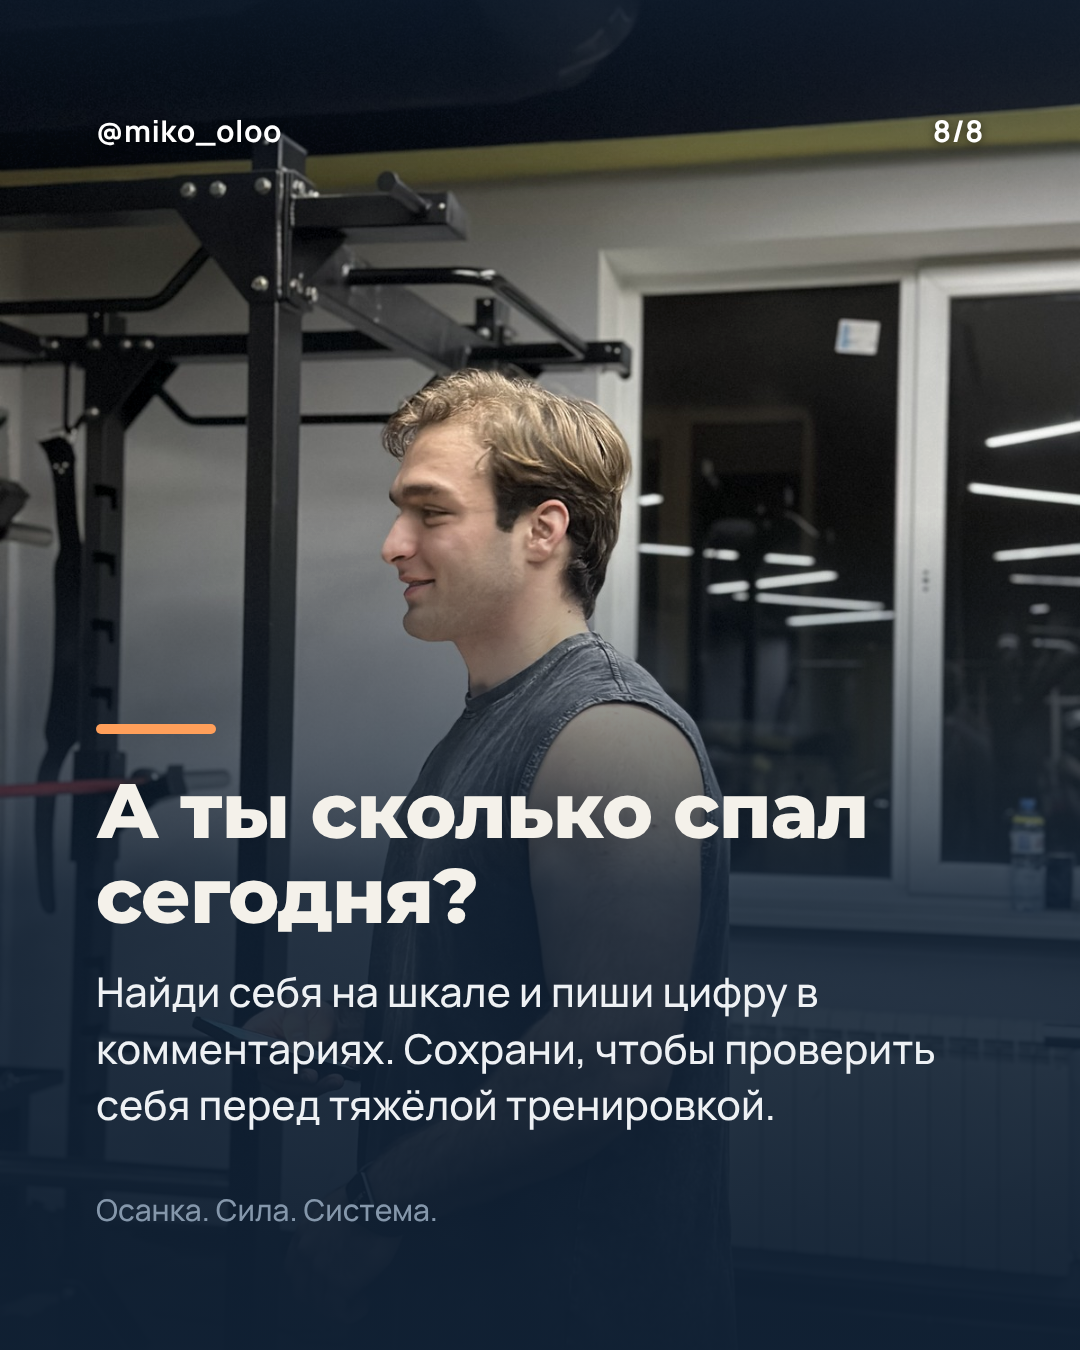
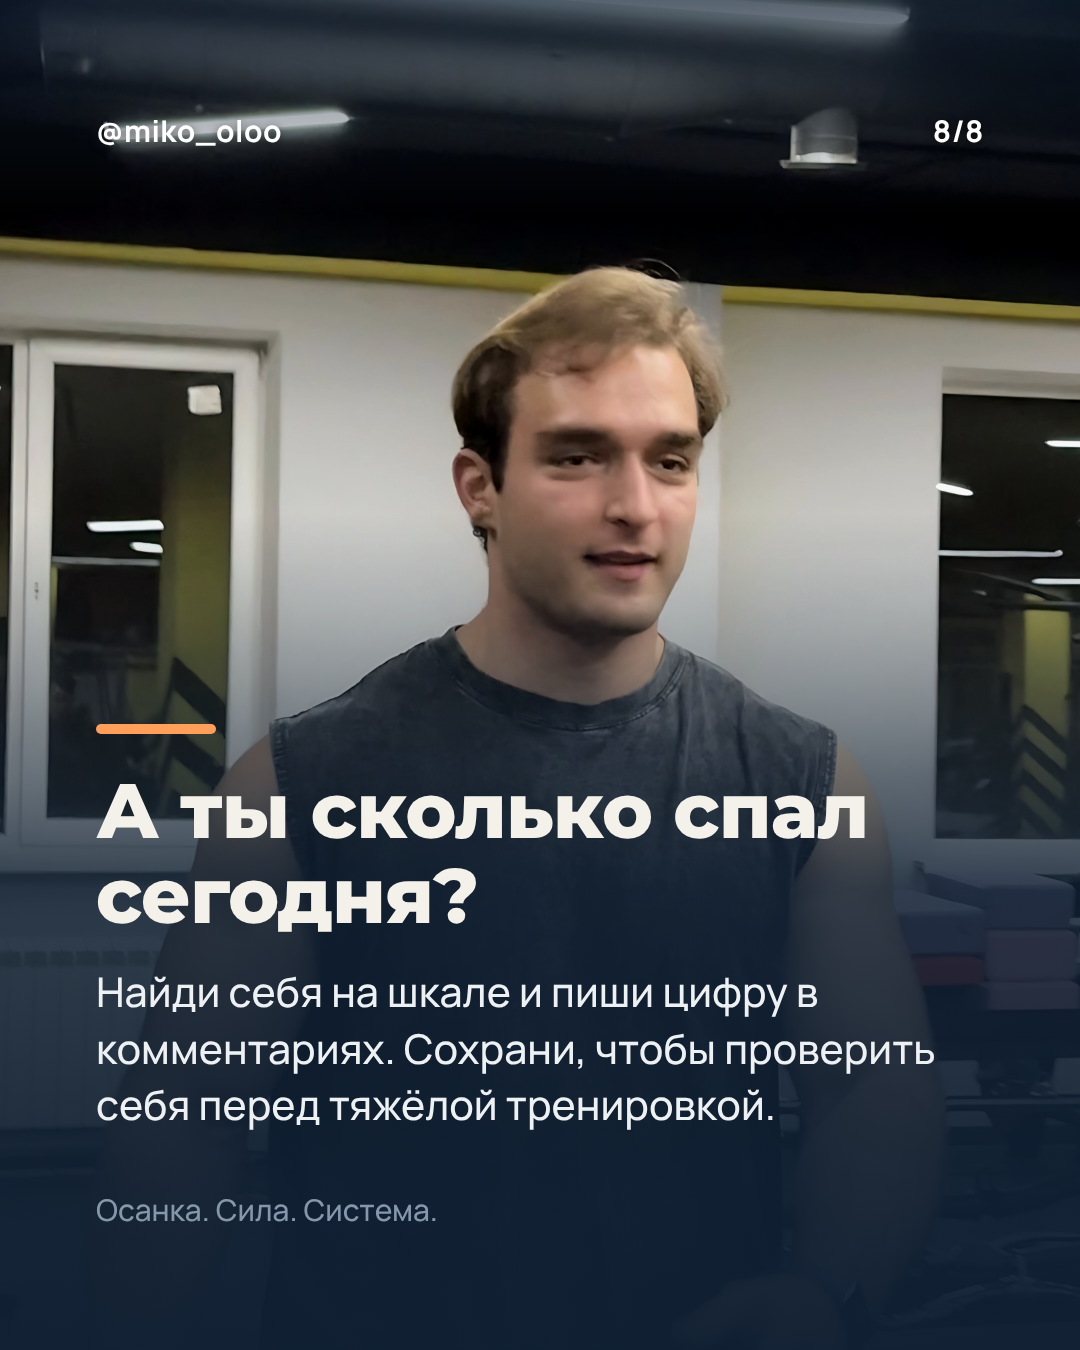
c5: финальный слайд с другим фото (спокойный живой кадр IMG_9678)
Claude-Session: https://claude.ai/code/session_014b6iEBjPGyacsH4fnBbVwQ

diff --git a/content/carousels/build_18-11.py b/content/carousels/build_18-11.py
@@ -204,7 +204,7 @@ def c5():
          'title': 'Важно, как именно не доспал', 'body': 'Ранний подъём бьёт стабильно, поздний отбой нестабильно. До полудня результат почти не страдал, во второй половине дня проседал.', 'marks': [win]},
         {'layout': 'big-number', 'photo': 'src/c5_gym_phone.jpg', 'focus': '50% 40%',
          'title': 'Мои правила для клиентов', 'body': 'Онлайн-клиент перед каждой тренировкой пишет, сколько спал. Меньше 7 часов: правка в тяжёлый и средний день.', 'marks': [scale]},
-        {'layout': 'cta-photo', 'photo': 'src/c5_smile.jpg', 'focus': '50% 30%',
+        {'layout': 'cta-photo', 'photo': 'src/c5_cta_calm.jpg', 'focus': '50% 50%',
          'title': 'А ты сколько спал сегодня?', 'body': 'Найди себя на шкале и пиши цифру в комментариях. Сохрани, чтобы проверить себя перед тяжёлой тренировкой.'},
     ]
 
